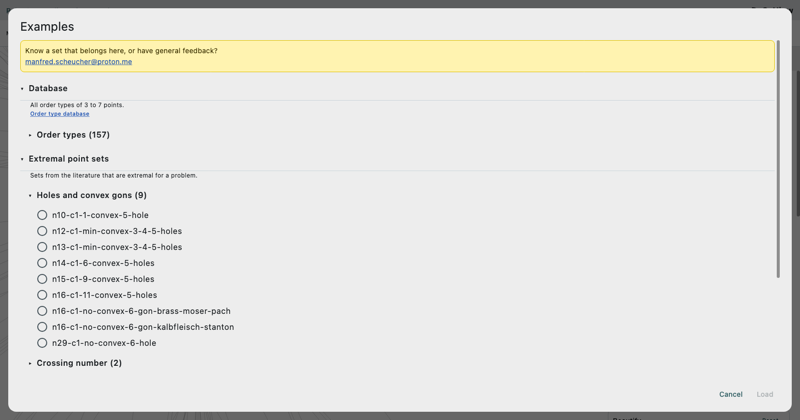
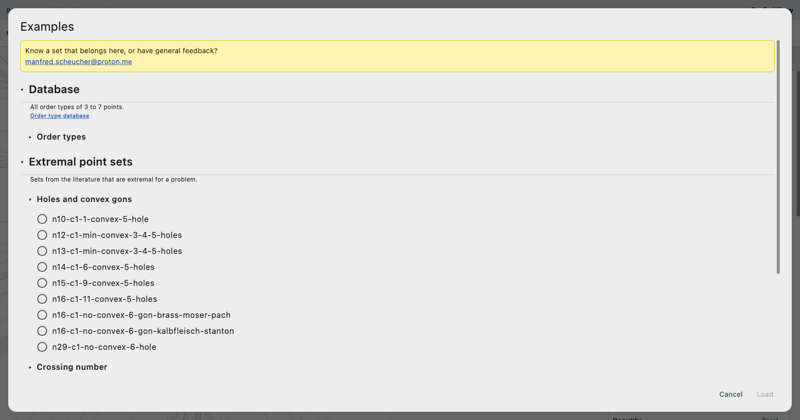
Examples tree like ArrView/RotSysView: titleLarge top level, no group counts

Changed region(s): [[0.0312, 0.3714, 0.3125, 0.8976], [0.0312, 0.1857, 0.1562, 0.3405]]

diff --git a/composeApp/src/jvmTest/kotlin/org/bytefred/pocoview/ui/ExamplesDialogUiTest.kt b/composeApp/src/jvmTest/kotlin/org/bytefred/pocoview/ui/ExamplesDialogUiTest.kt
@@ -3,6 +3,8 @@ package org.bytefred.pocoview.ui
 import androidx.compose.ui.test.ExperimentalTestApi
 import androidx.compose.ui.test.assertIsEnabled
 import androidx.compose.ui.test.assertIsNotEnabled
+import androidx.compose.ui.test.hasClickAction
+import androidx.compose.ui.test.hasText
 import androidx.compose.ui.test.onNodeWithText
 import androidx.compose.ui.test.performClick
 import androidx.compose.ui.test.performScrollTo
@@ -65,23 +67,23 @@ class ExamplesDialogUiTest {
         val load = onNodeWithText("Load")
         // all collapsed: the supergroups, Families and Links, no groups
         for (t in listOf("Database", "Extremal point sets", "Families", "Links")) onNodeWithText(t).assertExists()
-        onNodeWithText("Holes and convex gons (9)").assertDoesNotExist()
+        onNodeWithText("Holes and convex gons").assertDoesNotExist()
         onNodeWithText("Extremal point sets").performClick()
         onNodeWithText("Sets from the literature that are extremal for a problem.").assertExists()
-        onNodeWithText("Bicolored sets (6)").performScrollTo().performClick()
+        onNodeWithText("Bicolored sets").performScrollTo().performClick()
         onNodeWithText("n8-c2-no-monochromatic-3-hole").performScrollTo().performClick()
         load.assertIsEnabled()
         // collapsing the group of the selection clears it
-        onNodeWithText("Bicolored sets (6)").performScrollTo().performClick()
+        onNodeWithText("Bicolored sets").performScrollTo().performClick()
         load.assertIsNotEnabled()
-        onNodeWithText("Bicolored sets (6)").performClick()
+        onNodeWithText("Bicolored sets").performClick()
         onNodeWithText("n8-c2-no-monochromatic-3-hole").performScrollTo().performClick()
         // the database: description, its link, one group with the order type files
         onNodeWithText("Database").performScrollTo().performClick()
         onNodeWithText("All order types of 3 to 7 points.").assertExists()
         onNodeWithText("Order type database").assertExists()
         load.assertIsEnabled()
-        onNodeWithText("Order types (157)").performScrollTo().performClick()
+        onNodeWithText("Order types").performScrollTo().performClick()
         onNodeWithText("n = 5 (3)").performScrollTo().performClick()
         load.performClick()
         waitForIdle()
@@ -94,7 +96,8 @@ class ExamplesDialogUiTest {
         val s = state()
         setContent { App(s, DialogKind.EXAMPLES) }
         onNodeWithText("Extremal point sets").performClick()
-        onNodeWithText("Crossing number (2)").performScrollTo().performClick()
+        // the group header, not the Crossing number property of the widget behind the dialog
+        onNode(hasText("Crossing number") and hasClickAction()).performScrollTo().performClick()
         onNodeWithText("n12-c1-min-crossing-number-153").performScrollTo().performClick()
         onNodeWithText("Load").performClick()
         waitForIdle()

diff --git a/composeApp/src/commonMain/kotlin/org/bytefred/pocoview/ui/Menus.kt b/composeApp/src/commonMain/kotlin/org/bytefred/pocoview/ui/Menus.kt
@@ -553,9 +553,10 @@ private fun ExamplesDialog(state: AppState, close: () -> Unit) {
                 NodeInfo(sg.description, sg.links, depth = 0)
                 for (g in sg.groups) {
                     val key = groupKey(sg, g)
-                    TreeHeader("${g.title} (${g.size})", key in open, depth = 1) { ex.toggle(key) }
+                    TreeHeader(g.title, key in open, depth = 1) { ex.toggle(key) }
                     if (key !in open) continue
-                    NodeInfo(g.description, g.links, depth = 1)
+                    // links its supergroup already shows are not repeated
+                    NodeInfo(g.description, g.links.filter { l -> sg.links.none { it.url == l.url } }, depth = 1)
                     for (e in g.examples) {
                         val choice = ExampleChoice.Single(e)
                         TreeLeaf(e.name, depth = 2, selected == choice) { selected = choice }
@@ -605,7 +606,7 @@ private fun NodeInfo(description: String?, links: List<ExampleLink>, depth: Int)
     }
 }
 
-/** A clickable, expand/collapse tree node (supergroup, group, Families, Links). */
+/** A clickable, expand/collapse tree node (supergroup, group, Families, Links); the top level ([depth] 0) has the larger titleLarge font. */
 @Composable
 private fun TreeHeader(label: String, open: Boolean, depth: Int, onToggle: () -> Unit) {
     Row(
@@ -618,7 +619,7 @@ private fun TreeHeader(label: String, open: Boolean, depth: Int, onToggle: () ->
         Text(if (open) "▾" else "▸", style = MaterialTheme.typography.bodyLarge)
         Text(
             label,
-            style = MaterialTheme.typography.bodyLarge,
+            style = if (depth == 0) MaterialTheme.typography.titleLarge else MaterialTheme.typography.bodyLarge,
             fontWeight = FontWeight.SemiBold,
             modifier = Modifier.padding(start = 8.dp),
         )

diff --git a/composeApp/src/jvmTest/kotlin/org/bytefred/pocoview/core/ExamplesTest.kt b/composeApp/src/jvmTest/kotlin/org/bytefred/pocoview/core/ExamplesTest.kt
@@ -11,7 +11,7 @@ class ExamplesTest {
         val catalog = loadExamples()
         assertEquals(listOf("database" to "Database", "extremal" to "Extremal point sets"), catalog.supergroups.map { it.id to it.title })
         val (database, extremal) = catalog.supergroups
-        assertEquals(listOf("Order types" to 157), database.groups.map { it.title to it.size })
+        assertEquals(listOf("Order types" to 157), database.groups.map { g -> g.title to g.orderTypes.sumOf { it.sets.size } })
         assertEquals(listOf("Order type database"), database.links.map { it.title })
         assertEquals(
             listOf(
@@ -61,7 +61,6 @@ class ExamplesTest {
         assertEquals(null, g.description)
         assertEquals(listOf("n3-c1-t"), g.examples.map { it.name })
         assertEquals(listOf(3), g.orderTypes.map { it.n })
-        assertEquals(2, g.size)
         // ids must be unique (they are the tree keys)
         assertFailsWith<FormatException> { parseIndex(index.replace("\"id\": \"h\"", "\"id\": \"g\""), mapOf("a/t.json" to set), mapOf("b/otypes03.b08" to "000080ff00ff")) }
         assertFailsWith<FormatException> { parseIndex(index, emptyMap(), mapOf("b/otypes03.b08" to "000080ff00ff")) }

diff --git a/composeApp/src/jvmTest/kotlin/org/bytefred/pocoview/ui/NumberFieldUiTest.kt b/composeApp/src/jvmTest/kotlin/org/bytefred/pocoview/ui/NumberFieldUiTest.kt
@@ -107,7 +107,7 @@ class NumberFieldUiTest {
         val s = state()
         setContent { App(s, DialogKind.EXAMPLES) }
         onNodeWithText("Database").performScrollTo().performClick()
-        onNodeWithText("Order types (157)").performScrollTo().performClick()
+        onNodeWithText("Order types").performScrollTo().performClick()
         onNodeWithText("n = 7 (135)").performScrollTo().performClick()
         onNodeWithText("Order types of 7 points (Graz order type database)").performScrollTo()
         val field = onNodeWithTag("number-order type")

diff --git a/composeApp/src/commonMain/kotlin/org/bytefred/pocoview/core/Examples.kt b/composeApp/src/commonMain/kotlin/org/bytefred/pocoview/core/Examples.kt
@@ -38,10 +38,7 @@ data class ExampleGroup(
     val links: List<ExampleLink> = emptyList(),
     val examples: List<Example> = emptyList(),
     val orderTypes: List<OrderTypeFile> = emptyList(),
-) {
-    /** The number of point sets in the group (an order type file counts each of its sets). */
-    val size: Int get() = examples.size + orderTypes.sumOf { it.sets.size }
-}
+)
 
 /** A link shown with the examples (collections, databases). */
 data class ExampleLink(val title: String, val url: String, val description: String?)

diff --git a/doc/GUI_SPEC.md b/doc/GUI_SPEC.md
@@ -24,6 +24,12 @@ Decisions:
   families, not only extremal sets).
 - Collapsing a supergroup or group that holds the selection clears the selection (as before).
 
+Aligned with ArrView/RotSysView/PoCoView: the depth-0 headers (supergroups, and Families and Links,
+which stay after them) use titleLarge; group headers show the title only, without the count ("Order
+types" instead of "Order types (157)"; the leaves keep "n = 5 (3)"); an open group does not repeat
+links its supergroup already shows. Arrow (▸/▾), 16 dp per level and the collapse rules were already
+the same. `ExampleGroup.size` is gone (it only served the count); `doc/img/examples.png` re-rendered.
+
 ## 2026-11-21: Fixes from the manual walkthrough
 
 Problems found while writing the manual; Manfred: "ja bitte".
